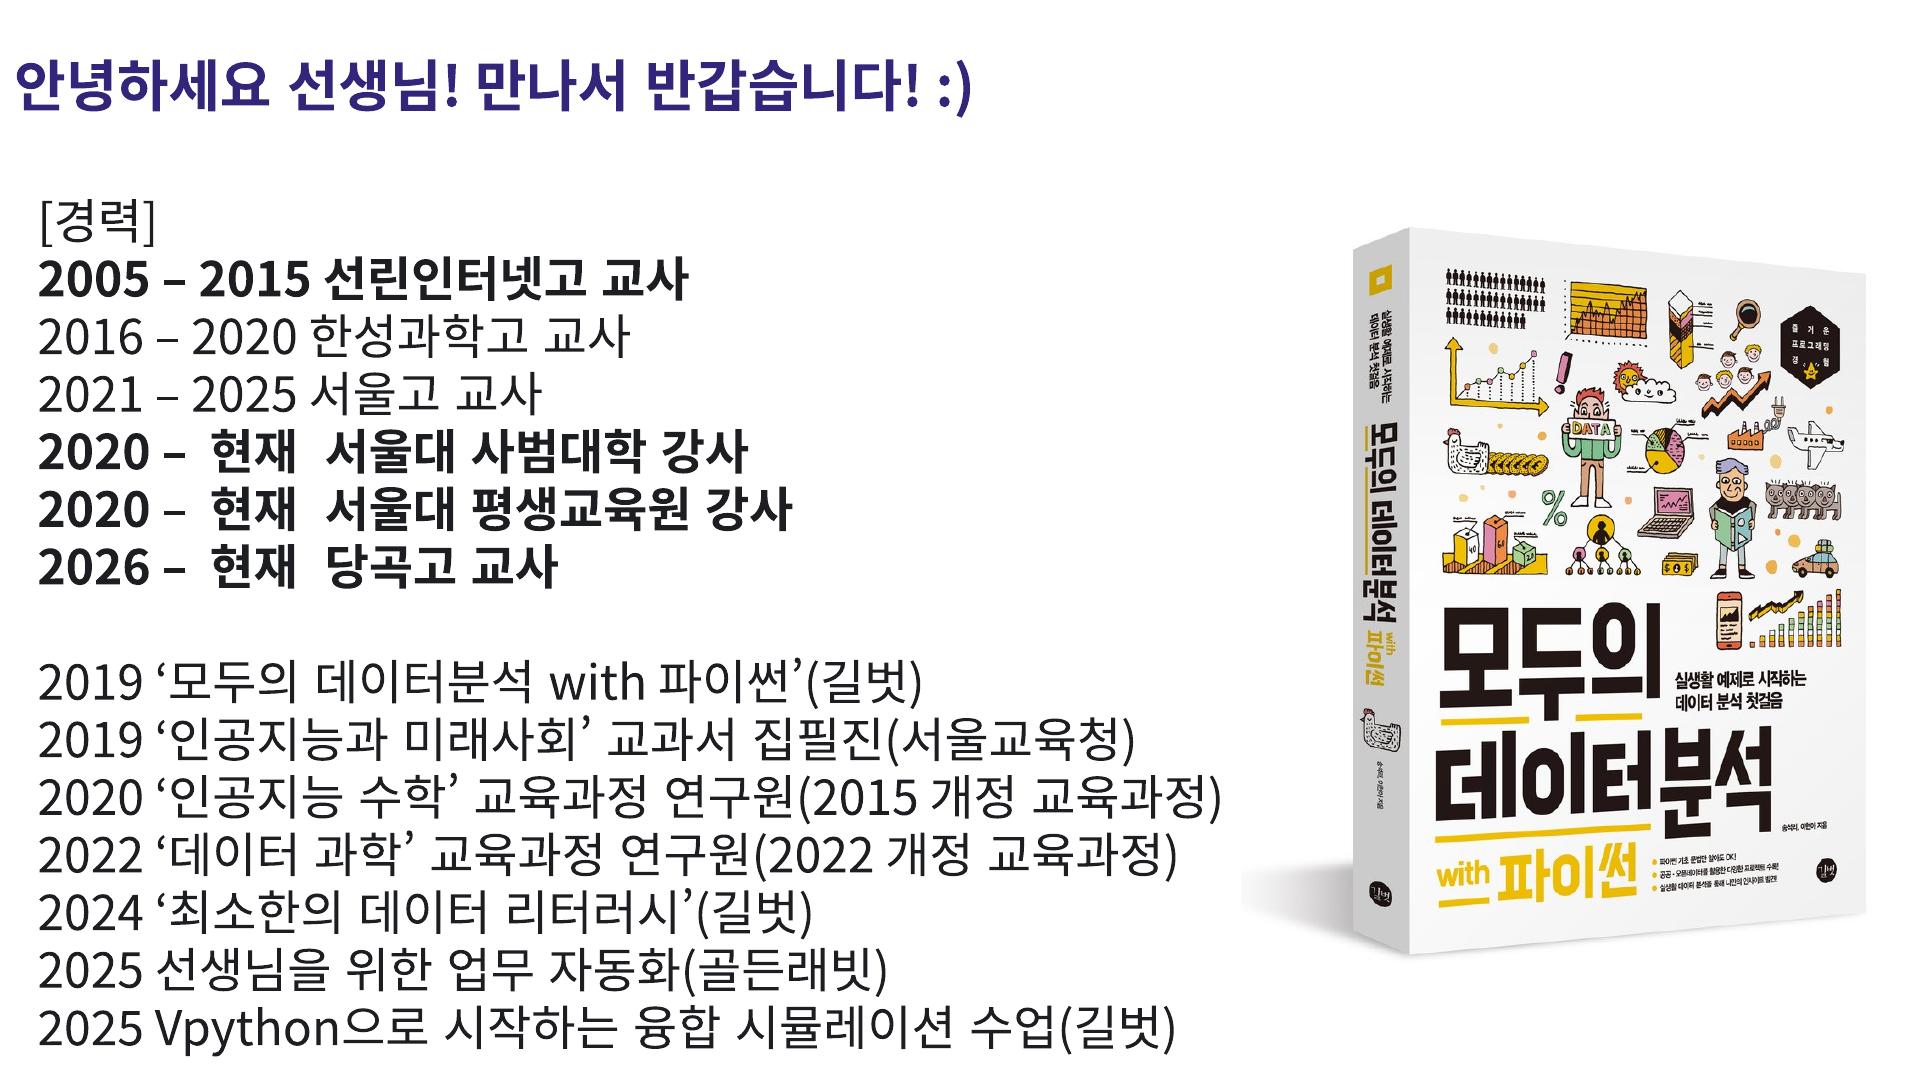
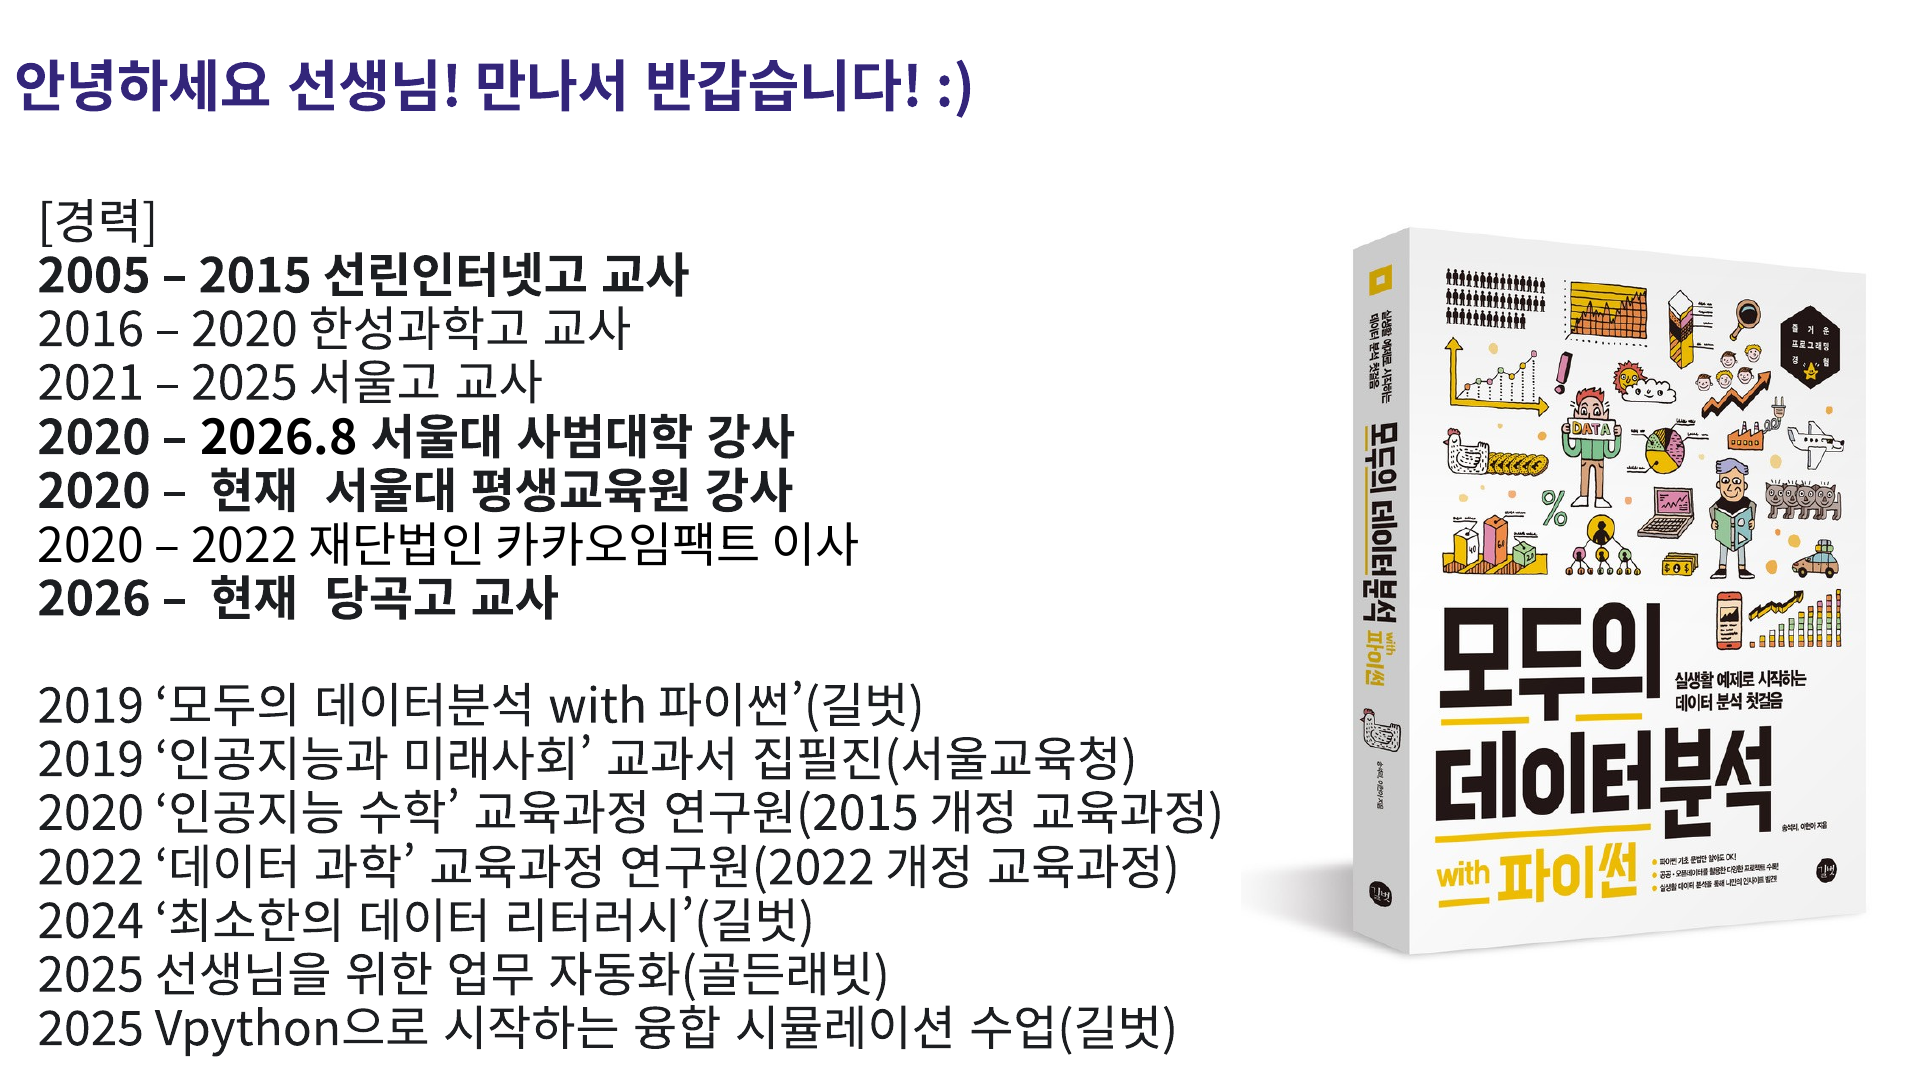
자기소개 1장: 서울대 사범대학 강사 2020 – 2026.8, 카카오임팩트 이사(2020 – 2022) 추가
- 원본 그림에서 고친 줄의 '2026.8'과 새 줄만 같은 글꼴(Noto Sans KR 24pt)로 그리고 나머지 줄은 원본 픽셀을 옮김

Changed region(s): [[0.0, 0.6111, 0.6562, 0.9472], [0.0, 0.2139, 0.4688, 0.5806]]

diff --git a/slides/index.html b/slides/index.html
@@ -6,12 +6,12 @@
 <title>1일차 · 바이브코딩 사례 나눔과 아이데이션 해커톤</title>
 <meta name="description" content="동작관악 AI에듀테크 선도교사단 1일차 발표 슬라이드">
 <link rel="stylesheet" href="https://cdn.jsdelivr.net/gh/orioncactus/pretendard@v1.3.9/dist/web/variable/pretendardvariable-dynamic-subset.min.css">
-<link rel="stylesheet" href="deck/deck.css?v=20261027j">
-<link rel="stylesheet" href="content/style.css?v=20261027j">
+<link rel="stylesheet" href="deck/deck.css?v=20261027k">
+<link rel="stylesheet" href="content/style.css?v=20261027k">
 </head>
 <body>
 <div id="viewport"><div id="stage"></div></div>
-<script src="content/slides.js?v=20261027j"></script>
-<script src="deck/deck.js?v=20261027j"></script>
+<script src="content/slides.js?v=20261027k"></script>
+<script src="deck/deck.js?v=20261027k"></script>
 </body>
 </html>

diff --git a/slides/content/slides.js b/slides/content/slides.js
@@ -38,6 +38,7 @@
 
   // ── 소개 ─────────────────────────────────────────────
   // 세종과학고 특강(260923) 자기소개 2~4장 원본 그대로(neural-explorer/public/lecture-assets/source/slide-02~04.png)
+  // intro-02만 고침(2026-10-27): 서울대 사범대학 강사 2020 – 2026.8, '2020 – 2022 재단법인 카카오임팩트 이사' 줄 추가(줄 간격을 조금 좁혀 맞춤)
   { sec: '소개', title: '제 소개 1', html: '<div class="full"><img alt="" src="img/intro-02.png"></div>', notes: '' },
   { sec: '소개', title: '제 소개 2', html: '<div class="full"><img alt="" src="img/intro-03.png"></div>', notes: '' },
   { sec: '소개', title: '제 소개 3', html: '<div class="full"><img alt="" src="img/intro-04.png"></div>', notes: '' },
